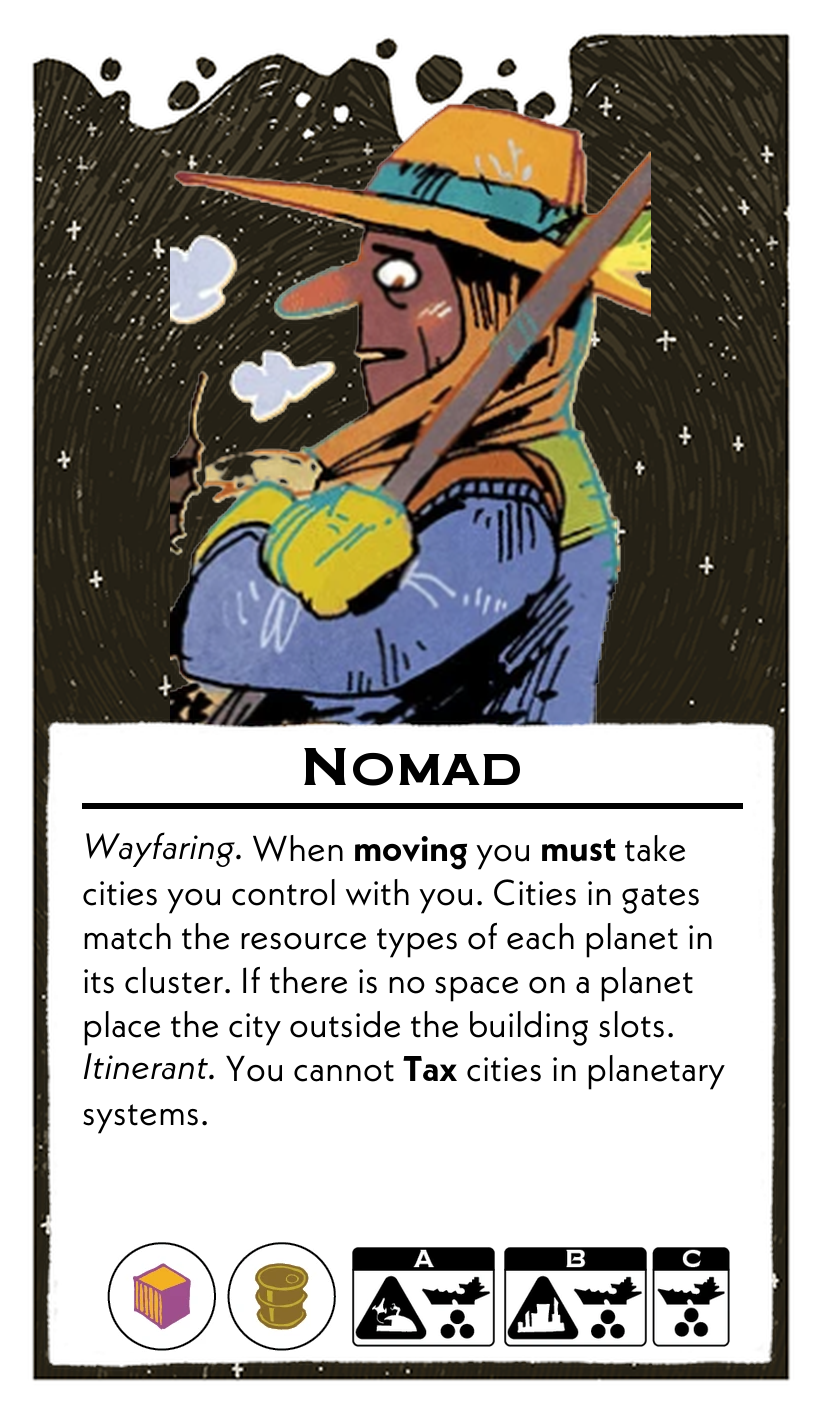
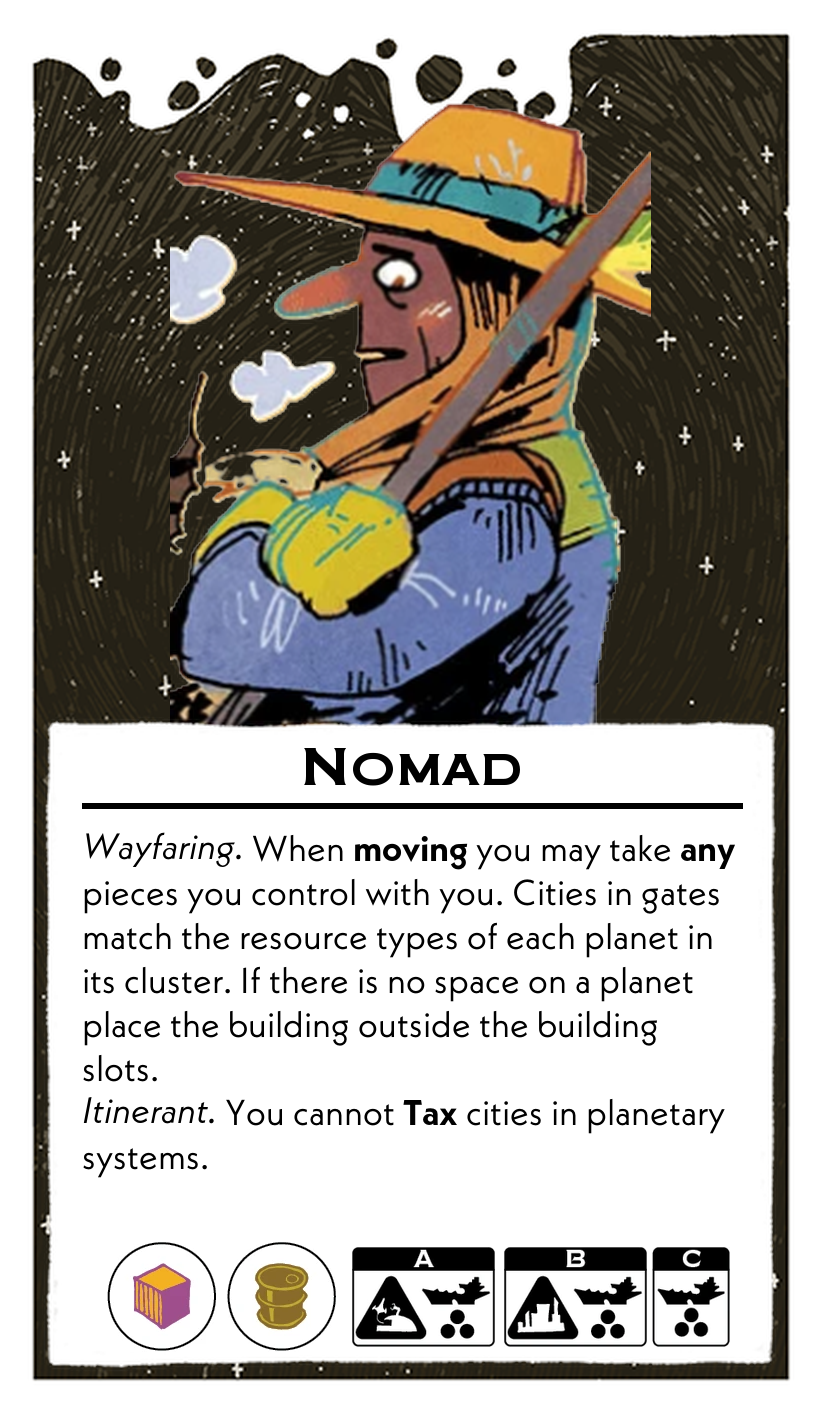
m

Changed region(s): [[0.0912, 0.7157, 0.882, 0.8402], [0.0912, 0.5912, 0.882, 0.6535]]

diff --git a/scripts/leadersFormatted.py b/scripts/leadersFormatted.py
@@ -613,7 +613,7 @@ leaders = [
     {
         "name": "Nomad",
         "abilities": (
-            "*Wayfaring.* When **moving** you **must** take cities you control with you. Cities in gates match the resource types of each planet in its cluster. If there is no space on a planet place the city outside the building slots.\n"
+            "*Wayfaring.* When **moving** you may take **any** pieces you control with you. Cities in gates match the resource types of each planet in its cluster. If there is no space on a planet place the building outside the building slots.\n"
             "*Itinerant.* You cannot **Tax** cities in planetary systems.\n"
         ),
         "resources": ["Material", "Fuel"],
